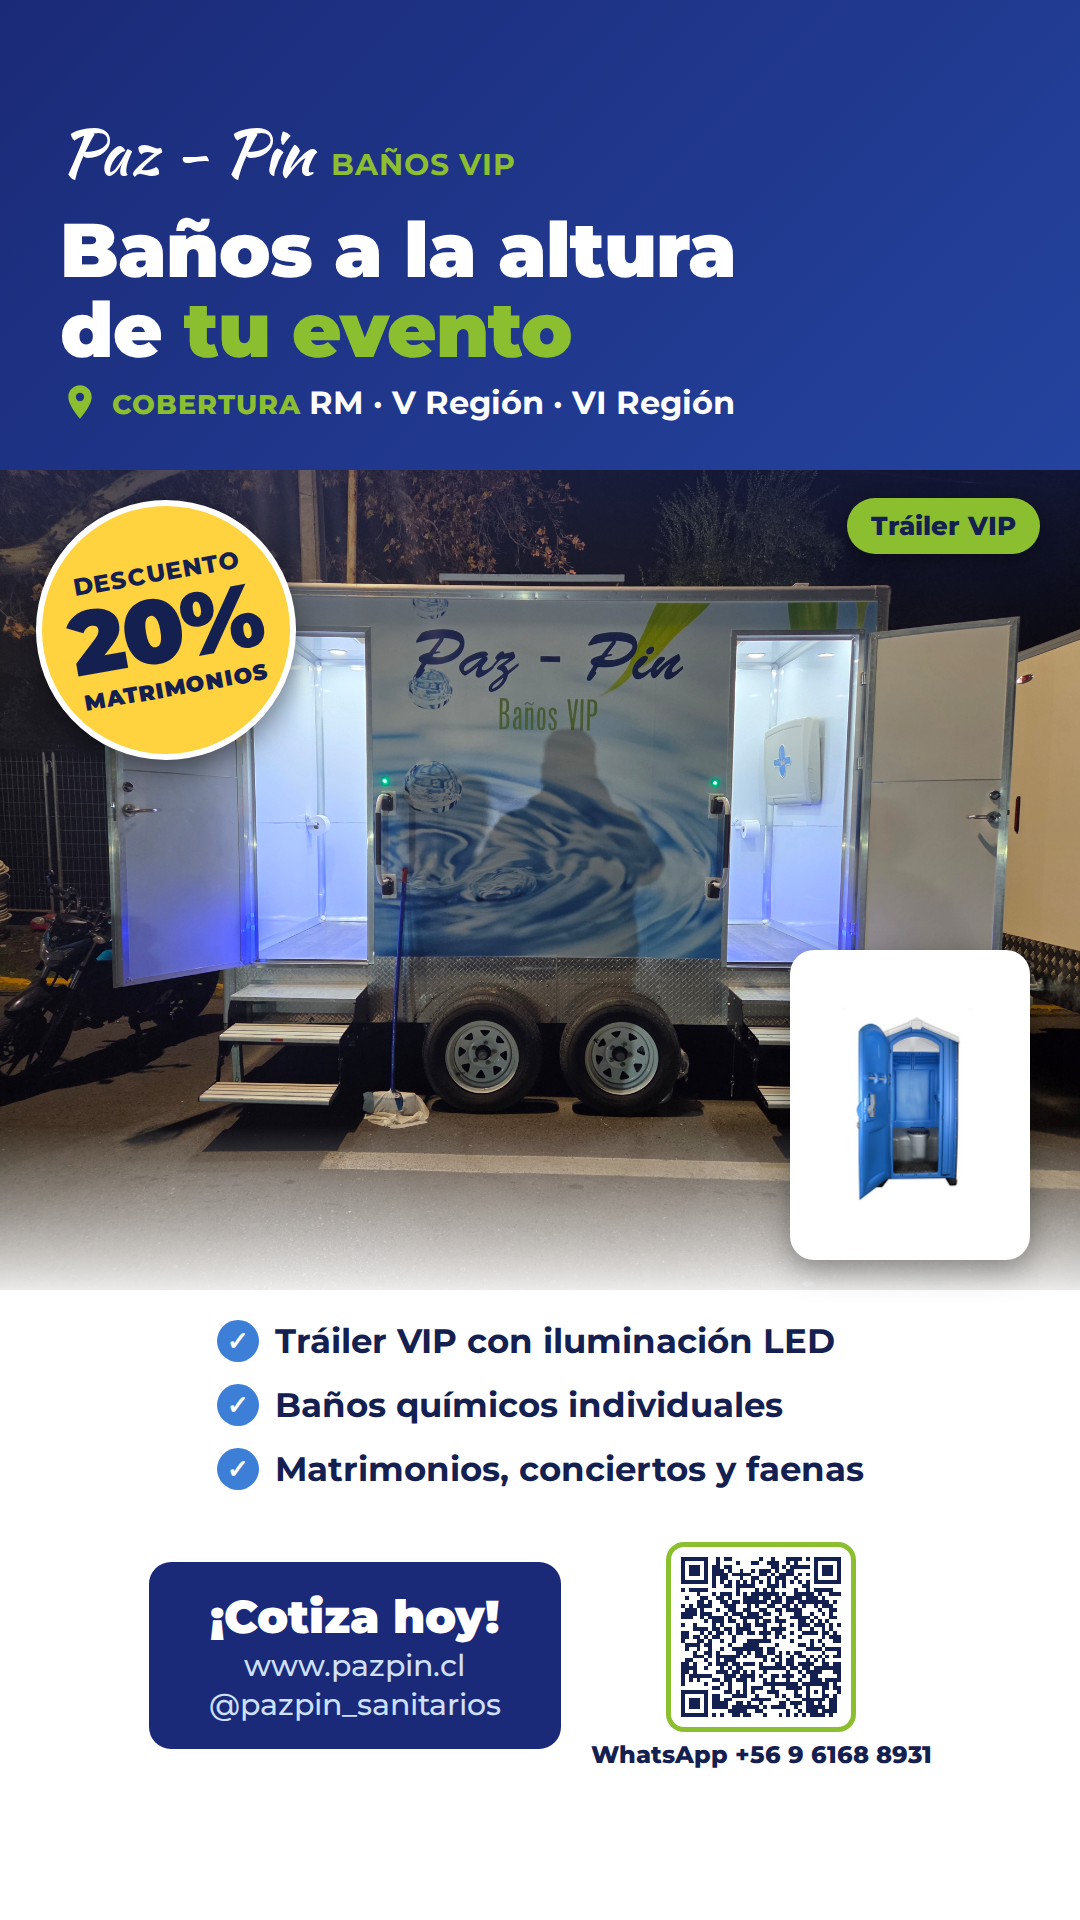
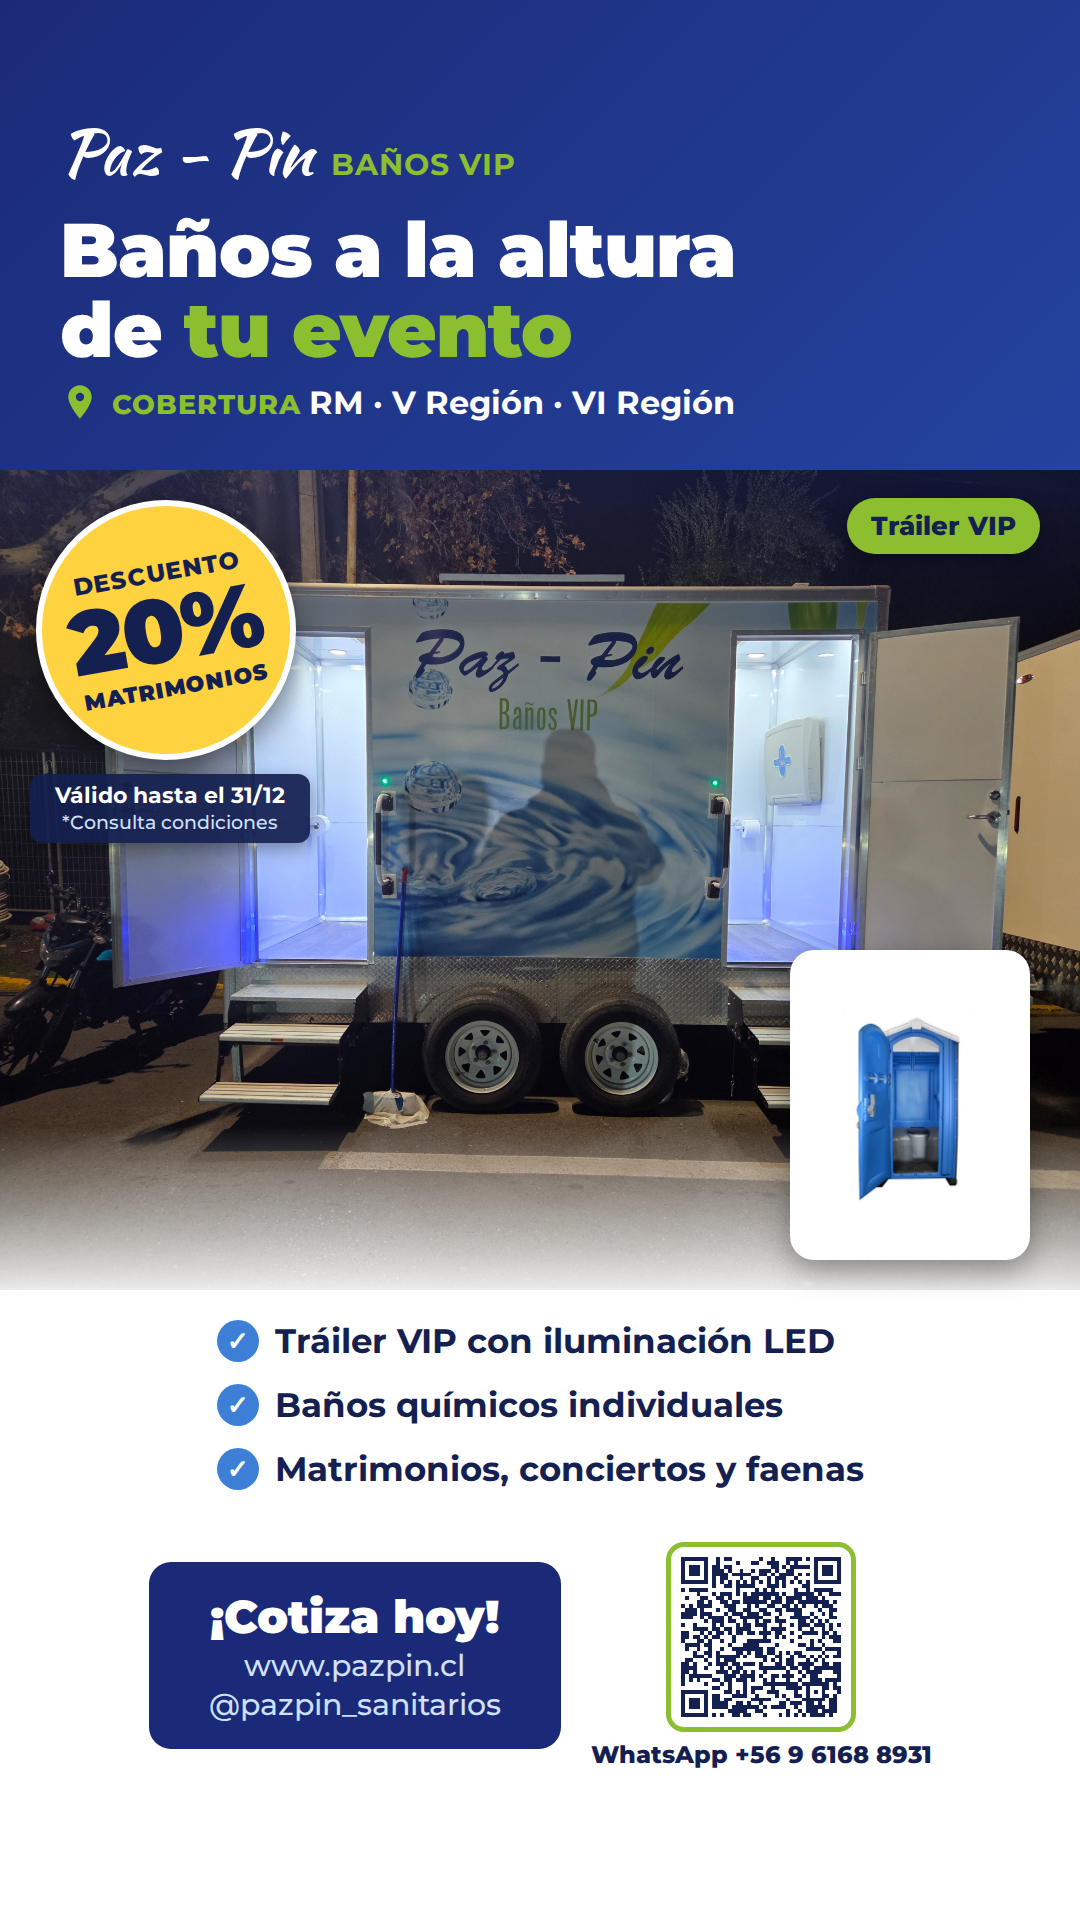
Agregar vigencia y condiciones a la promoción de matrimonios
Válido hasta el 31/12 con nota "*Consulta condiciones" bajo el sello
en el post y la historia; en el texto se aclara que aplica a todos los
servicios.

Claude-Session: https://claude.ai/code/session_01SeHKDtyF9RTatuRqh77ur9

Changed region(s): [[0.0306, 0.4062, 0.3056, 0.4688]]

diff --git a/instagram/post-4x5.html b/instagram/post-4x5.html
@@ -73,6 +73,10 @@
   .promo small { font-size: 20px; font-weight: 800; letter-spacing: 1px; }
   .promo b { font-size: 76px; font-weight: 900; line-height: .95; letter-spacing: -2px; }
   .promo span { font-size: 19px; font-weight: 900; letter-spacing: 1px; margin-top: 2px; }
+  .promo-note { position: absolute; top: 260px; left: 30px; z-index: 3; width: 240px; text-align: center;
+    background: rgba(20,32,79,.92); color: #fff; border-radius: 12px; padding: 8px 10px; line-height: 1.3;
+    font-size: 18px; font-weight: 700; box-shadow: 0 6px 18px rgba(0,0,0,.35); }
+  .promo-note em { display: block; font-style: normal; font-weight: 500; font-size: 15px; color: #cfe0ff; }
 </style>
 </head>
 <body>
@@ -83,7 +87,7 @@
     <div class="zona"><svg viewBox="0 0 24 24" width="30" height="30"><path fill="#8cbf2f" d="M12 2C8.1 2 5 5.1 5 9c0 5.2 7 13 7 13s7-7.8 7-13c0-3.9-3.1-7-7-7zm0 9.5A2.5 2.5 0 1 1 12 6.5a2.5 2.5 0 0 1 0 5z"/></svg><div><small>COBERTURA</small>Región Metropolitana<br>V y VI Región</div></div>
   </div>
 
-  <div class="photo"><div class="promo"><small>DESCUENTO</small><b>20%</b><span>MATRIMONIOS</span></div><div class="tag">Tráiler VIP</div></div>
+  <div class="photo"><div class="promo"><small>DESCUENTO</small><b>20%</b><span>MATRIMONIOS</span></div><div class="promo-note">Válido hasta el 31/12<em>*Consulta condiciones</em></div><div class="tag">Tráiler VIP</div></div>
 
   <div class="bottom">
     <div class="info">

diff --git a/instagram/historia-9x16.html b/instagram/historia-9x16.html
@@ -73,6 +73,10 @@
   .promo small { font-size: 24px; font-weight: 800; letter-spacing: 1px; }
   .promo b { font-size: 90px; font-weight: 900; line-height: .95; letter-spacing: -2px; }
   .promo span { font-size: 22px; font-weight: 900; letter-spacing: 1px; margin-top: 2px; }
+  .promo-note { position: absolute; top: 304px; left: 30px; z-index: 3; width: 280px; text-align: center;
+    background: rgba(20,32,79,.92); color: #fff; border-radius: 12px; padding: 8px 10px; line-height: 1.3;
+    font-size: 22px; font-weight: 700; box-shadow: 0 6px 18px rgba(0,0,0,.35); }
+  .promo-note em { display: block; font-style: normal; font-weight: 500; font-size: 19px; color: #cfe0ff; }
 </style>
 </head>
 <body>
@@ -83,7 +87,7 @@
     <div class="zona"><svg viewBox="0 0 24 24" width="40" height="40"><path fill="#8cbf2f" d="M12 2C8.1 2 5 5.1 5 9c0 5.2 7 13 7 13s7-7.8 7-13c0-3.9-3.1-7-7-7zm0 9.5A2.5 2.5 0 1 1 12 6.5a2.5 2.5 0 0 1 0 5z"/></svg><div><small>COBERTURA</small>RM · V Región · VI Región</div></div>
   </div>
 
-  <div class="photo"><div class="promo"><small>DESCUENTO</small><b>20%</b><span>MATRIMONIOS</span></div><div class="tag">Tráiler VIP</div></div>
+  <div class="photo"><div class="promo"><small>DESCUENTO</small><b>20%</b><span>MATRIMONIOS</span></div><div class="promo-note">Válido hasta el 31/12<em>*Consulta condiciones</em></div><div class="tag">Tráiler VIP</div></div>
 
   <div class="bottom">
     <div class="info">

diff --git a/instagram/README.md b/instagram/README.md
@@ -23,7 +23,8 @@ En **Paz-Pin Baños VIP** te arrendamos baños a la altura de tu celebración:
 ✅ Tráiler VIP con iluminación LED, cómodo y elegante
 ✅ Baños químicos individuales para cualquier tipo de evento
 ✅ Ideal para matrimonios, conciertos, fiestas, eventos corporativos y faenas
-💍 ¡Promoción! 20% de descuento en matrimonios
+💍 ¡Promoción! 20% de descuento en matrimonios, en todos nuestros servicios.
+Válido hasta el 31 de diciembre de 2026. *Consulta condiciones.
 📍 Cobertura en la Región Metropolitana, V Región y VI Región
 
 📲 Cotiza por WhatsApp: +56 9 6168 8931 (wa.me/56961688931)
